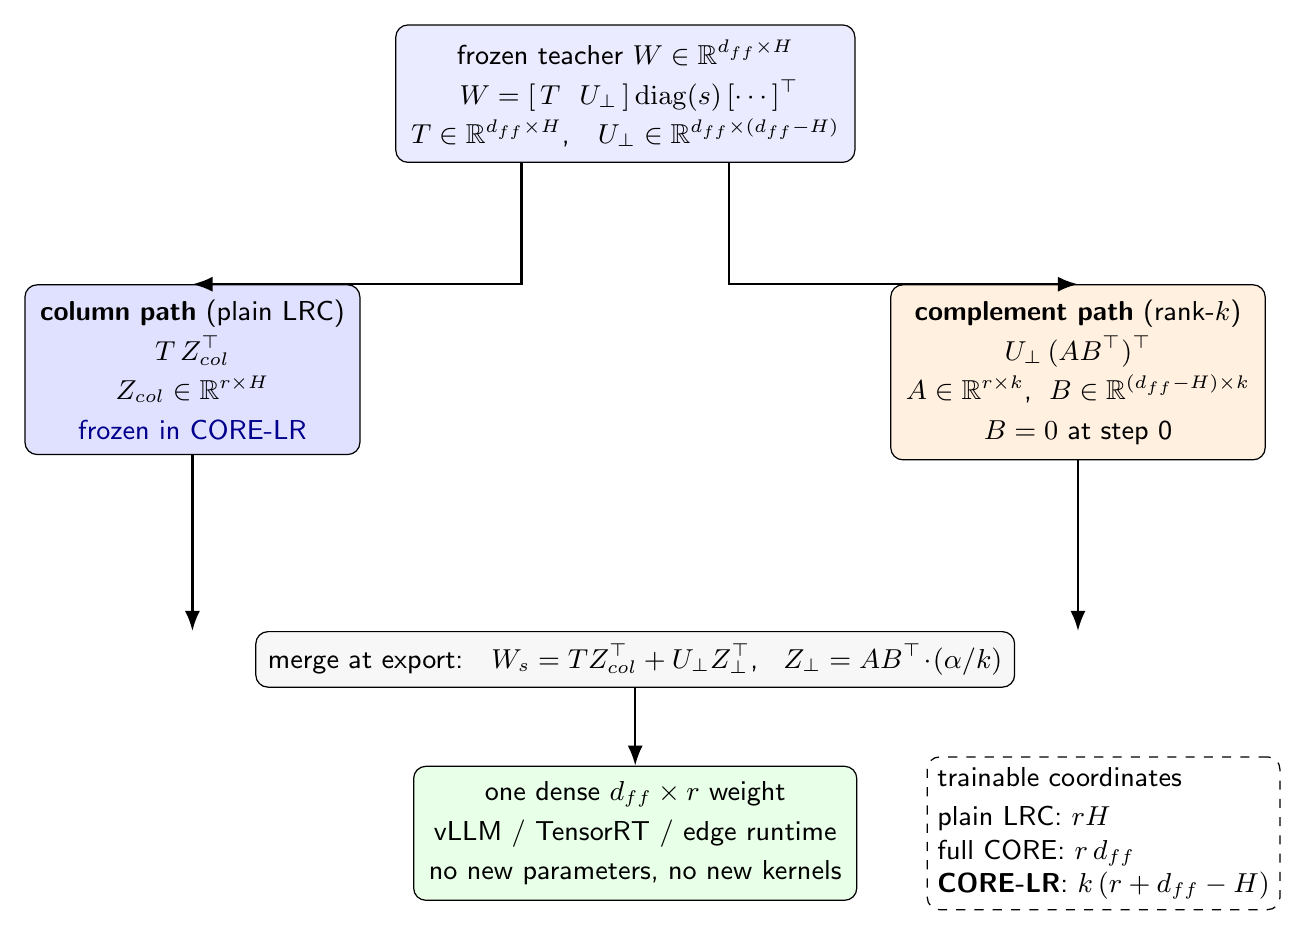
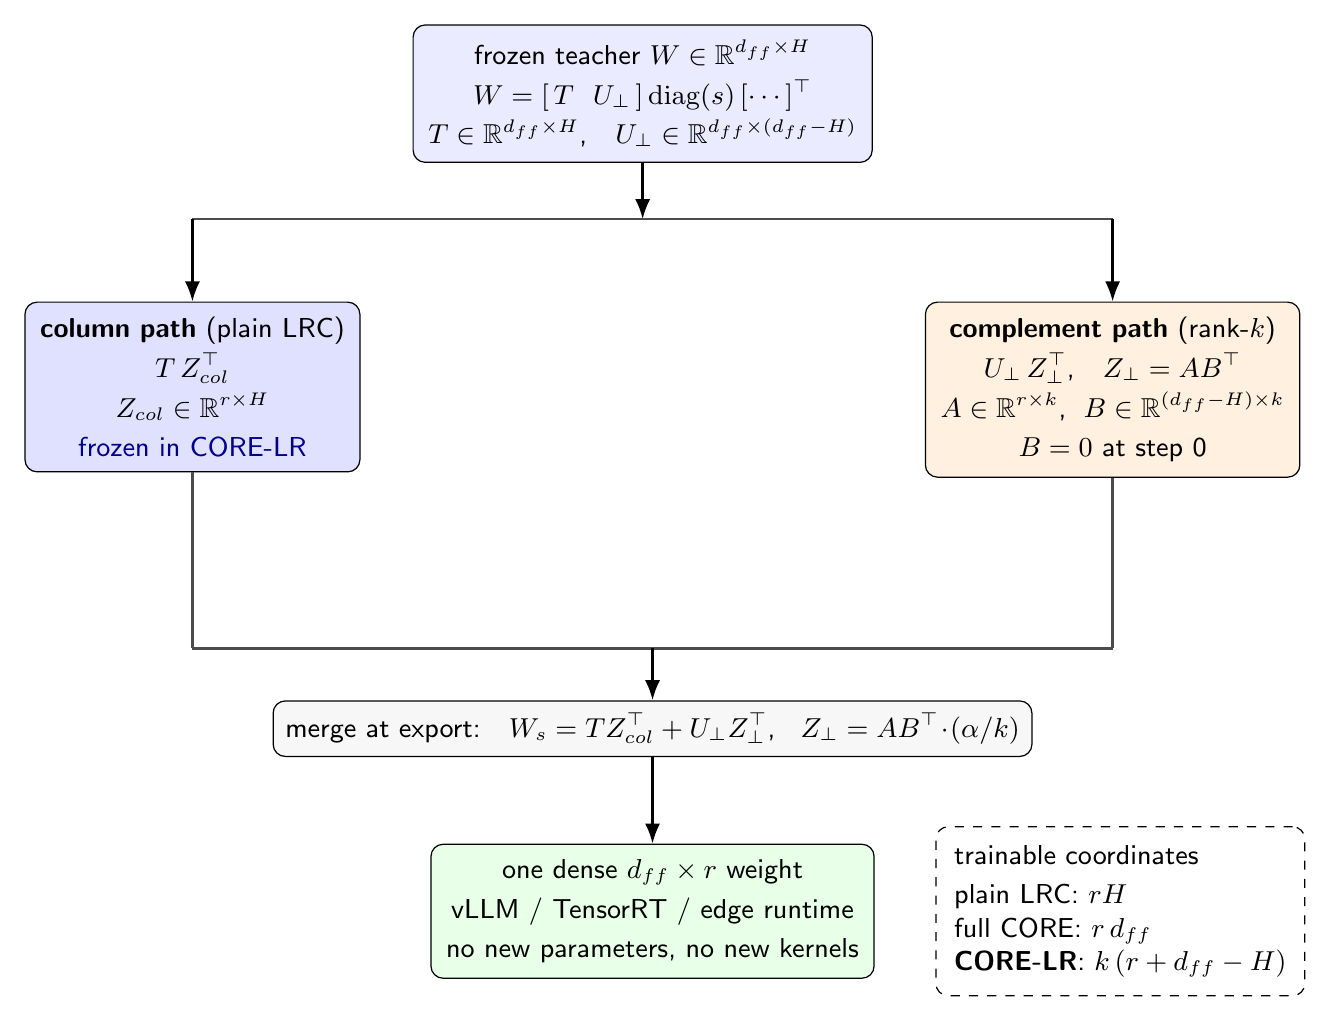
update

diff --git a/docs/figures/core_lr_pipeline.tex b/docs/figures/core_lr_pipeline.tex
@@ -9,50 +9,60 @@
 \begin{tikzpicture}[font=\sffamily\small,>=Latex,
     box/.style={draw,rounded corners,align=center,inner sep=5pt},
     op/.style={draw,fill=gray!6,rounded corners,align=center,inner sep=4pt},
-    arr/.style={->,thick}]
+    arr/.style={->,thick},
+    bus/.style={thick,draw=black!70}]
 
   % ---------------- teacher spectral basis --------------------------------
   \node[box,fill=blue!8] (svd)
       {frozen teacher $W\in\mathbb{R}^{d_{ff}\times H}$\\[2pt]
-       $\;W=[\,T\ \ U_\perp\,]\,\mathrm{diag}(s)\,[\cdots]^{\top}$\\[2pt]
+       $W=[\,T\ \ U_\perp\,]\,\mathrm{diag}(s)\,[\cdots]^{\top}$\\[2pt]
        $T\in\mathbb{R}^{d_{ff}\times H}$,\quad
        $U_\perp\in\mathbb{R}^{d_{ff}\times(d_{ff}-H)}$};
 
   % ---------------- two paths ---------------------------------------------
-  \node[box,fill=blue!12,below left=14mm and 4mm of svd] (col)
+  \node[box,fill=blue!12,below left=16mm and 6mm of svd] (col)
       {\textbf{column path} (plain LRC)\\[2pt]
        $T\,Z_{col}^{\top}$\\[2pt]
        $Z_{col}\in\mathbb{R}^{r\times H}$\\[2pt]
        \textcolor{blue!55!black}{frozen in CORE-LR}};
 
-  \node[box,fill=orange!12,below right=14mm and 4mm of svd] (perp)
+  \node[box,fill=orange!12,below right=16mm and 6mm of svd] (perp)
       {\textbf{complement path} (rank-$k$)\\[2pt]
-       $U_\perp\,(AB^{\top})^{\top}$\\[2pt]
+       $U_\perp\,Z_\perp^{\top}$,\quad $Z_\perp=A B^{\top}$\\[2pt]
        $A\in\mathbb{R}^{r\times k}$,\;
        $B\in\mathbb{R}^{(d_{ff}-H)\times k}$\\[2pt]
        $B=0$ at step 0};
 
-  \draw[arr] (svd.south) ++(-1.2,0) |- (col.north);
-  \draw[arr] (svd.south) ++( 1.2,0) |- (perp.north);
+  % fan-out bus: teacher -> both paths (vertical drop, horizontal bus, drop)
+  \coordinate (fbus) at ($(svd.south)+(0,-0.65)$);
+  \draw[arr] (svd.south) -- (fbus);
+  \draw[bus] (fbus -| col.north) -- (fbus -| perp.north);
+  \draw[arr] (fbus -| col.north) -- (col.north);
+  \draw[arr] (fbus -| perp.north) -- (perp.north);
 
   % ---------------- merge --------------------------------------------------
-  \node[op,below=20mm of $(col.south)!0.5!(perp.south)$] (merge)
+  \node[op,below=26mm of $(col.south)!0.5!(perp.south)$] (merge)
       {merge at export:\quad
        $W_s=T Z_{col}^{\top}+U_\perp Z_\perp^{\top}$,\;\;
        $Z_\perp=A B^{\top}\!\cdot\!(\alpha/k)$};
-  \draw[arr] (col.south) -- (merge.north -| col.south);
-  \draw[arr] (perp.south) -- (merge.north -| perp.south);
+
+  % merge bus: both paths -> merge (drop, bus, single arrow into merge)
+  \coordinate (mbus) at ($(merge.north)+(0,0.6)$);
+  \draw[bus] (col.south) -- (col.south |- mbus);
+  \draw[bus] (perp.south) -- (perp.south |- mbus);
+  \draw[bus] (col.south |- mbus) -- (perp.south |- mbus);
+  \draw[arr] (mbus) -- (merge.north);
 
   % ---------------- deploy -------------------------------------------------
-  \node[box,fill=green!9,below=9mm of merge] (deploy)
+  \node[box,fill=green!9,below=10mm of merge] (deploy)
       {one dense $d_{ff}\times r$ weight\\[2pt]
        vLLM / TensorRT / edge runtime\\[2pt]
        no new parameters, no new kernels};
   \draw[arr] (merge) -- (deploy);
 
   % ---------------- parameter ledger --------------------------------------
-  \node[draw,dashed,rounded corners,align=left,anchor=west]
-       at ($(deploy.east)+(8mm,0)$)
+  \node[draw,dashed,rounded corners,align=left,anchor=west,inner sep=6pt]
+       at ($(deploy.east)+(7mm,0)$)
        {trainable coordinates\\[2pt]
         plain LRC: $rH$\\
         full CORE: $r\,d_{ff}$\\
@@ -60,3 +70,4 @@
 
 \end{tikzpicture}
 \end{document}
+
